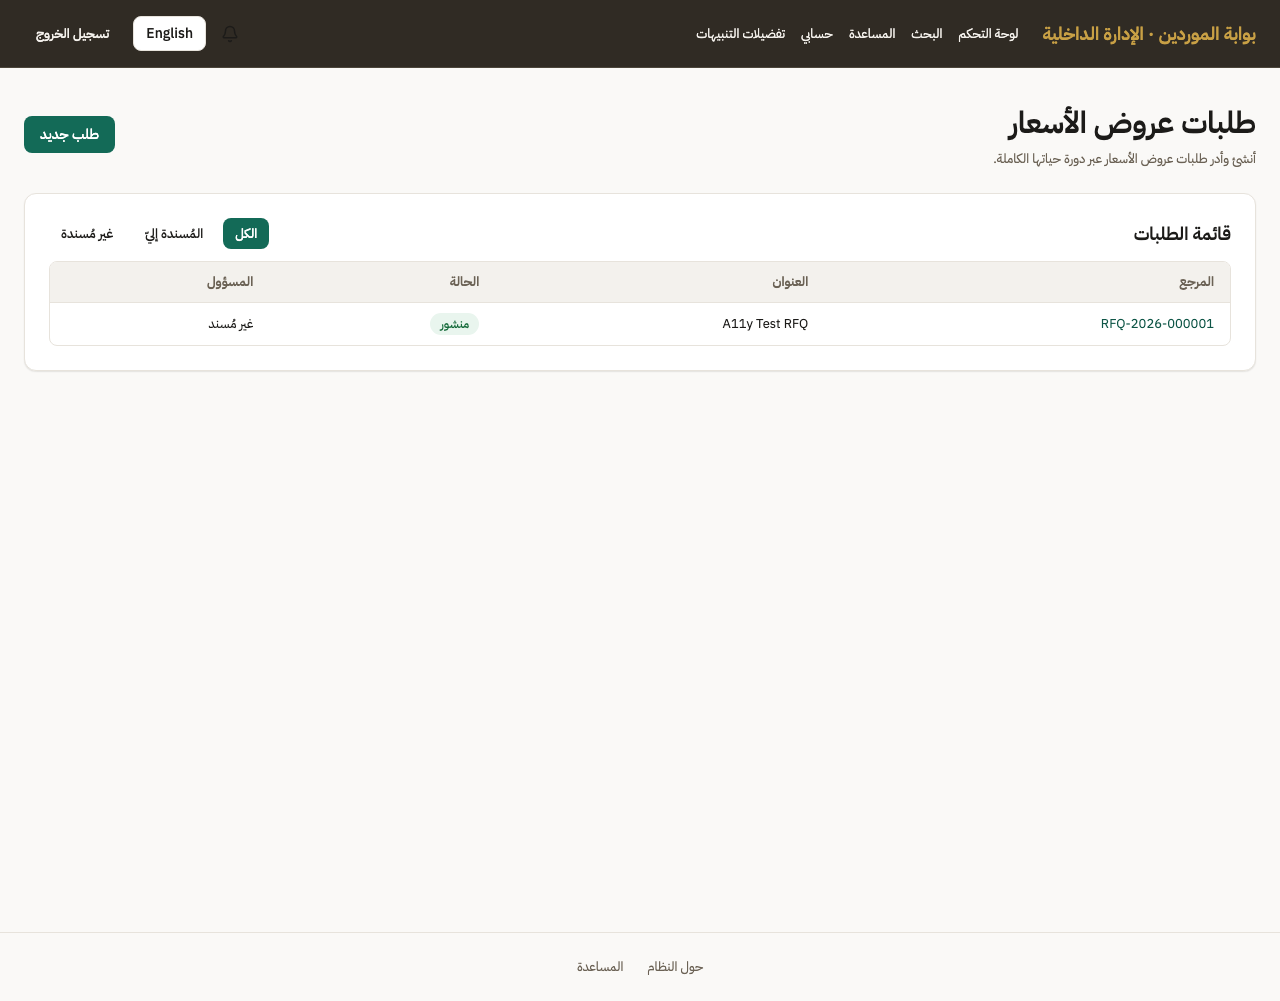
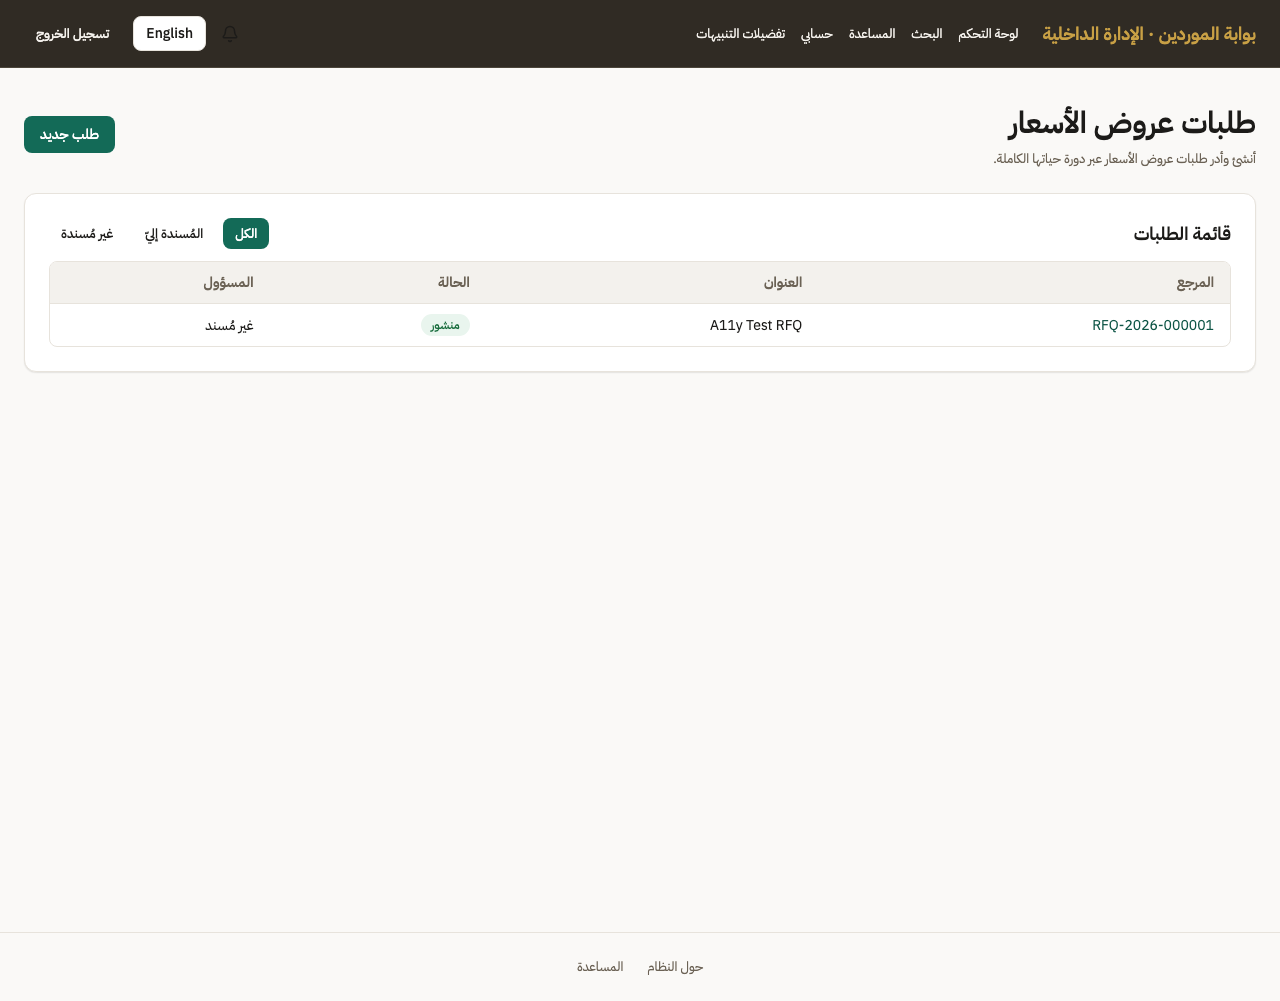
design(system): the two densities, as one variable rather than 191 edits
Phase 2.3, and the half of the system pass that was still only a document.

RECONCILIATION.md decided the two densities and nothing applied them: 14px for a back-office officer
scanning tables all day, 16px for a supplier reading a legal form a few times a year under deadline. The
audit found 13px as the most common size on all twelve screens it measured - for both audiences at once.

The cause was one line. Table set --text-body-sm on every table in the product, and tables are the
dominant content on 33 of the 65 screens, so a single component put all of them below the body floor.
Field's label was the other one: a label names a control, so it is not the secondary text 13px is for.

Both now read --density-body, which the supplier shell raises to 16px and everything else leaves at 14px.
A variable rather than a sweep because the size is a property of the AUDIENCE, not of each of the 191
places text is sized - and because a variable can be checked, which a sweep cannot. The default is the
back-office size so that sign in, register and accept-an-invitation, which render outside both shells,
resolve to a decision rather than falling back to the browser's 16px by accident.

13px keeps its job and the test says so: a hint, a caption, a dialog description, the heading's subtitle -
secondary text beside a value, never the value itself. Removing the token would have been the opposite
mistake.
[…]

diff --git a/src/frontend/src/styles/densityConformance.test.ts b/src/frontend/src/styles/densityConformance.test.ts
@@ -1,0 +1,59 @@
+import { describe, expect, it } from 'vitest'
+import { readFileSync } from 'node:fs'
+import { resolve } from 'node:path'
+
+/**
+ * The two densities, and the one variable that carries them.
+ *
+ * <p><b>What the audit measured.</b> 13px was the most common size on all twelve screens it looked at —
+ * for both audiences at once, though `RECONCILIATION.md` had already decided they differ: 14px for a
+ * back-office officer scanning tables all day, 16px for a supplier reading a legal form under deadline.
+ * The rules existed and nothing applied them.</p>
+ *
+ * <p><b>Why one variable rather than a sweep of 191 sites.</b> The size is a property of the audience,
+ * not of each place text is written. A shell declares which audience it serves; the shared content
+ * components read `--density-body`. That also means this can be checked, which a sweep could not be.</p>
+ */
+const SRC = resolve(process.cwd(), 'src')
+const read = (relative: string) => readFileSync(resolve(SRC, relative), 'utf8')
+
+describe('the two densities are declared, and something reads them', () => {
+  const css = read('index.css')
+
+  it('defines the variable, with the back-office size as the default', () => {
+    // The default matters: sign in, register and accept-an-invitation render outside both shells, and a
+    // variable that resolves to nothing there would drop the declaration and fall back to the browser's
+    // 16px by accident rather than by decision.
+    expect(css).toMatch(/:root\s*\{[^}]*--density-body:\s*var\(--text-body\)/)
+  })
+
+  it('gives the supplier its own, larger size', () => {
+    expect(css).toMatch(/\.msp-density-supplier\s*\{[^}]*--density-body:\s*var\(--text-body-lg\)/)
+  })
+
+  it('the supplier shell claims that density, and the back office does not', () => {
+    expect(read('shells/SupplierShell.tsx')).toContain('msp-density-supplier')
+    // Not a style choice - a check that the default is doing the work rather than both shells declaring
+    // and one of them drifting later.
+    expect(read('shells/BackOfficeShell.tsx')).not.toContain('msp-density-')
+  })
+
+  it('the content components that decide what "body text" looks like read it', () => {
+    // Table is the one that mattered: it is the dominant content on 33 of the 65 screens and it set all
+    // of them below the body floor in a single line.
+    expect(read('components/ui/Table.tsx')).toContain('text-[length:var(--density-body)]')
+    expect(read('components/ui/Field.tsx')).toContain('text-[length:var(--density-body)]')
+  })
+
+  it('13px is still available for what it is actually for', () => {
+    // Secondary text beside a value - a hint, a caption, a dialog description - not the value itself.
+    // Removing the token would be the opposite mistake, so this asserts it survives.
+    expect(read('styles/tokens.css')).toContain('--text-body-sm')
+    expect(read('components/ui/ListScreen.tsx')).toContain('var(--text-body-sm)')
+  })
+
+  it('the check can fail', () => {
+    expect(/\.msp-density-supplier\s*\{[^}]*--density-body/.test('.msp-density-supplier { --density-body: var(--text-body-lg); }')).toBe(true)
+    expect(/\.msp-density-supplier\s*\{[^}]*--density-body/.test('.msp-density-supplier { color: red; }')).toBe(false)
+  })
+})

diff --git a/src/frontend/src/index.css b/src/frontend/src/index.css
@@ -14,6 +14,29 @@
 @import "tailwindcss";
 @import "./styles/tokens.css";
 
+/*
+  The two densities, as one variable.
+
+  RECONCILIATION.md decided them and nothing applied them: the back office is a workspace read all day
+  and its body floor is 14px; the supplier is an outside company reading a legal form a few times a year
+  under deadline, and its body is 16px. The audit found 13px as the most common size on all twelve
+  screens it measured, for both audiences at once.
+
+  A variable rather than a sweep, because the size is a property of the AUDIENCE, not of each of the 191
+  places text is sized. A shell declares which one it is; shared content components read this. 13px keeps
+  its job - secondary text beside a value, never the value itself.
+
+  The default is the back-office size, so a screen outside either shell (sign in, register, accept an
+  invitation) still resolves rather than inheriting nothing.
+*/
+:root {
+  --density-body: var(--text-body);
+}
+
+.msp-density-supplier {
+  --density-body: var(--text-body-lg);
+}
+
 * {
   box-sizing: border-box;
 }

diff --git a/src/frontend/src/shells/SupplierShell.tsx b/src/frontend/src/shells/SupplierShell.tsx
@@ -28,8 +28,13 @@ export function SupplierShell({ children }: Props) {
     window.location.href = '/login'
   }
 
+  // `msp-density-supplier` sets --density-body to 16px for everything inside this shell.
+  // RECONCILIATION.md's reasoning: this reader is an outside company completing a legal application a
+  // few times a year under deadline, not an officer scanning tables all day. The back office keeps the
+  // 14px default, so only one of the two shells has to say anything.
+
   return (
-    <div className="flex min-h-screen flex-col" style={{ backgroundColor: 'var(--color-bg-app)' }}>
+    <div className="msp-density-supplier flex min-h-screen flex-col" style={{ backgroundColor: 'var(--color-bg-app)' }}>
       {/* SCR-045: above the header, so it is chrome rather than page content. */}
       <ErpStatusBanner />
       <header

diff --git a/src/frontend/src/components/ui/Table.tsx b/src/frontend/src/components/ui/Table.tsx
@@ -10,7 +10,10 @@ export function Table({ children, caption, maxHeight }: { children: ReactNode; c
       className="w-full overflow-auto rounded-[var(--radius-md)]"
       style={{ border: '1px solid var(--color-border)', maxHeight }}
     >
-      <table className="w-full border-collapse text-[length:var(--text-body-sm)]">
+      {/* The one line that made 13px the most common size on every screen the audit measured: tables are
+          the dominant content on 33 of the 65 screens, and this set all of them below the body floor.
+          `--density-body` is 14px in the back office and 16px for a supplier. */}
+      <table className="w-full border-collapse text-[length:var(--density-body)]">
         {caption ? <caption className="sr-only">{caption}</caption> : null}
         {children}
       </table>

diff --git a/src/frontend/src/components/ui/Field.tsx b/src/frontend/src/components/ui/Field.tsx
@@ -21,7 +21,7 @@ export function Field({ label, error, hint, required, children }: FieldProps) {
     <div className="flex flex-col gap-1.5">
       <Label.Root
         htmlFor={id}
-        className="text-[length:var(--text-body-sm)] font-[var(--fw-medium)]"
+        className="text-[length:var(--density-body)] font-[var(--fw-medium)]"
         style={{ color: 'var(--color-text-secondary)' }}
       >
         {label}
